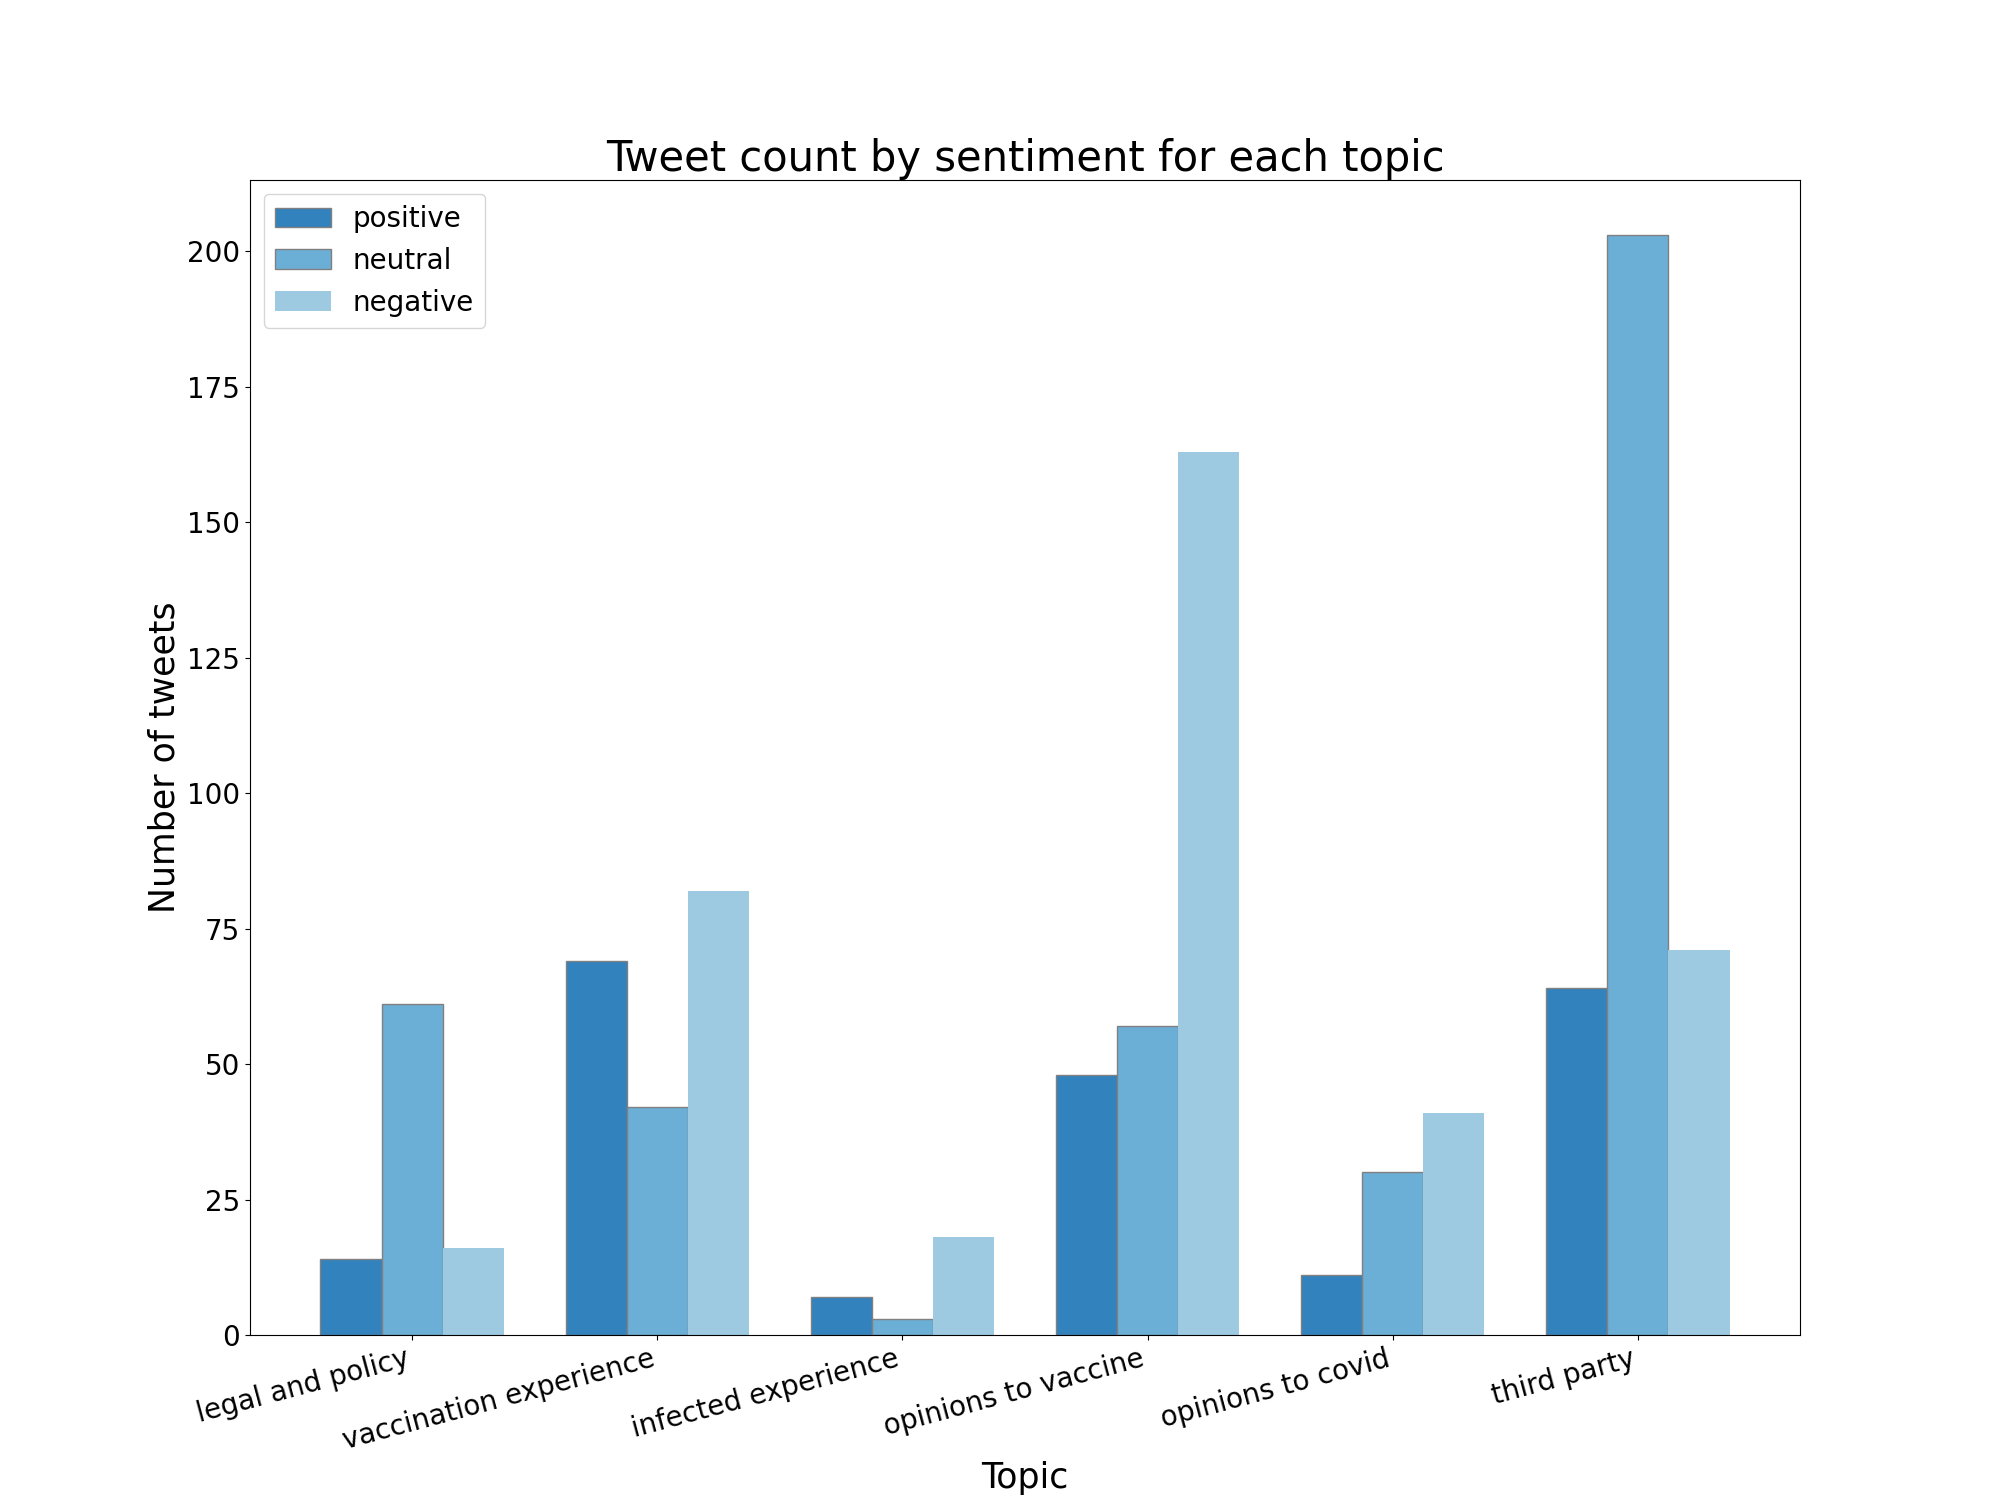
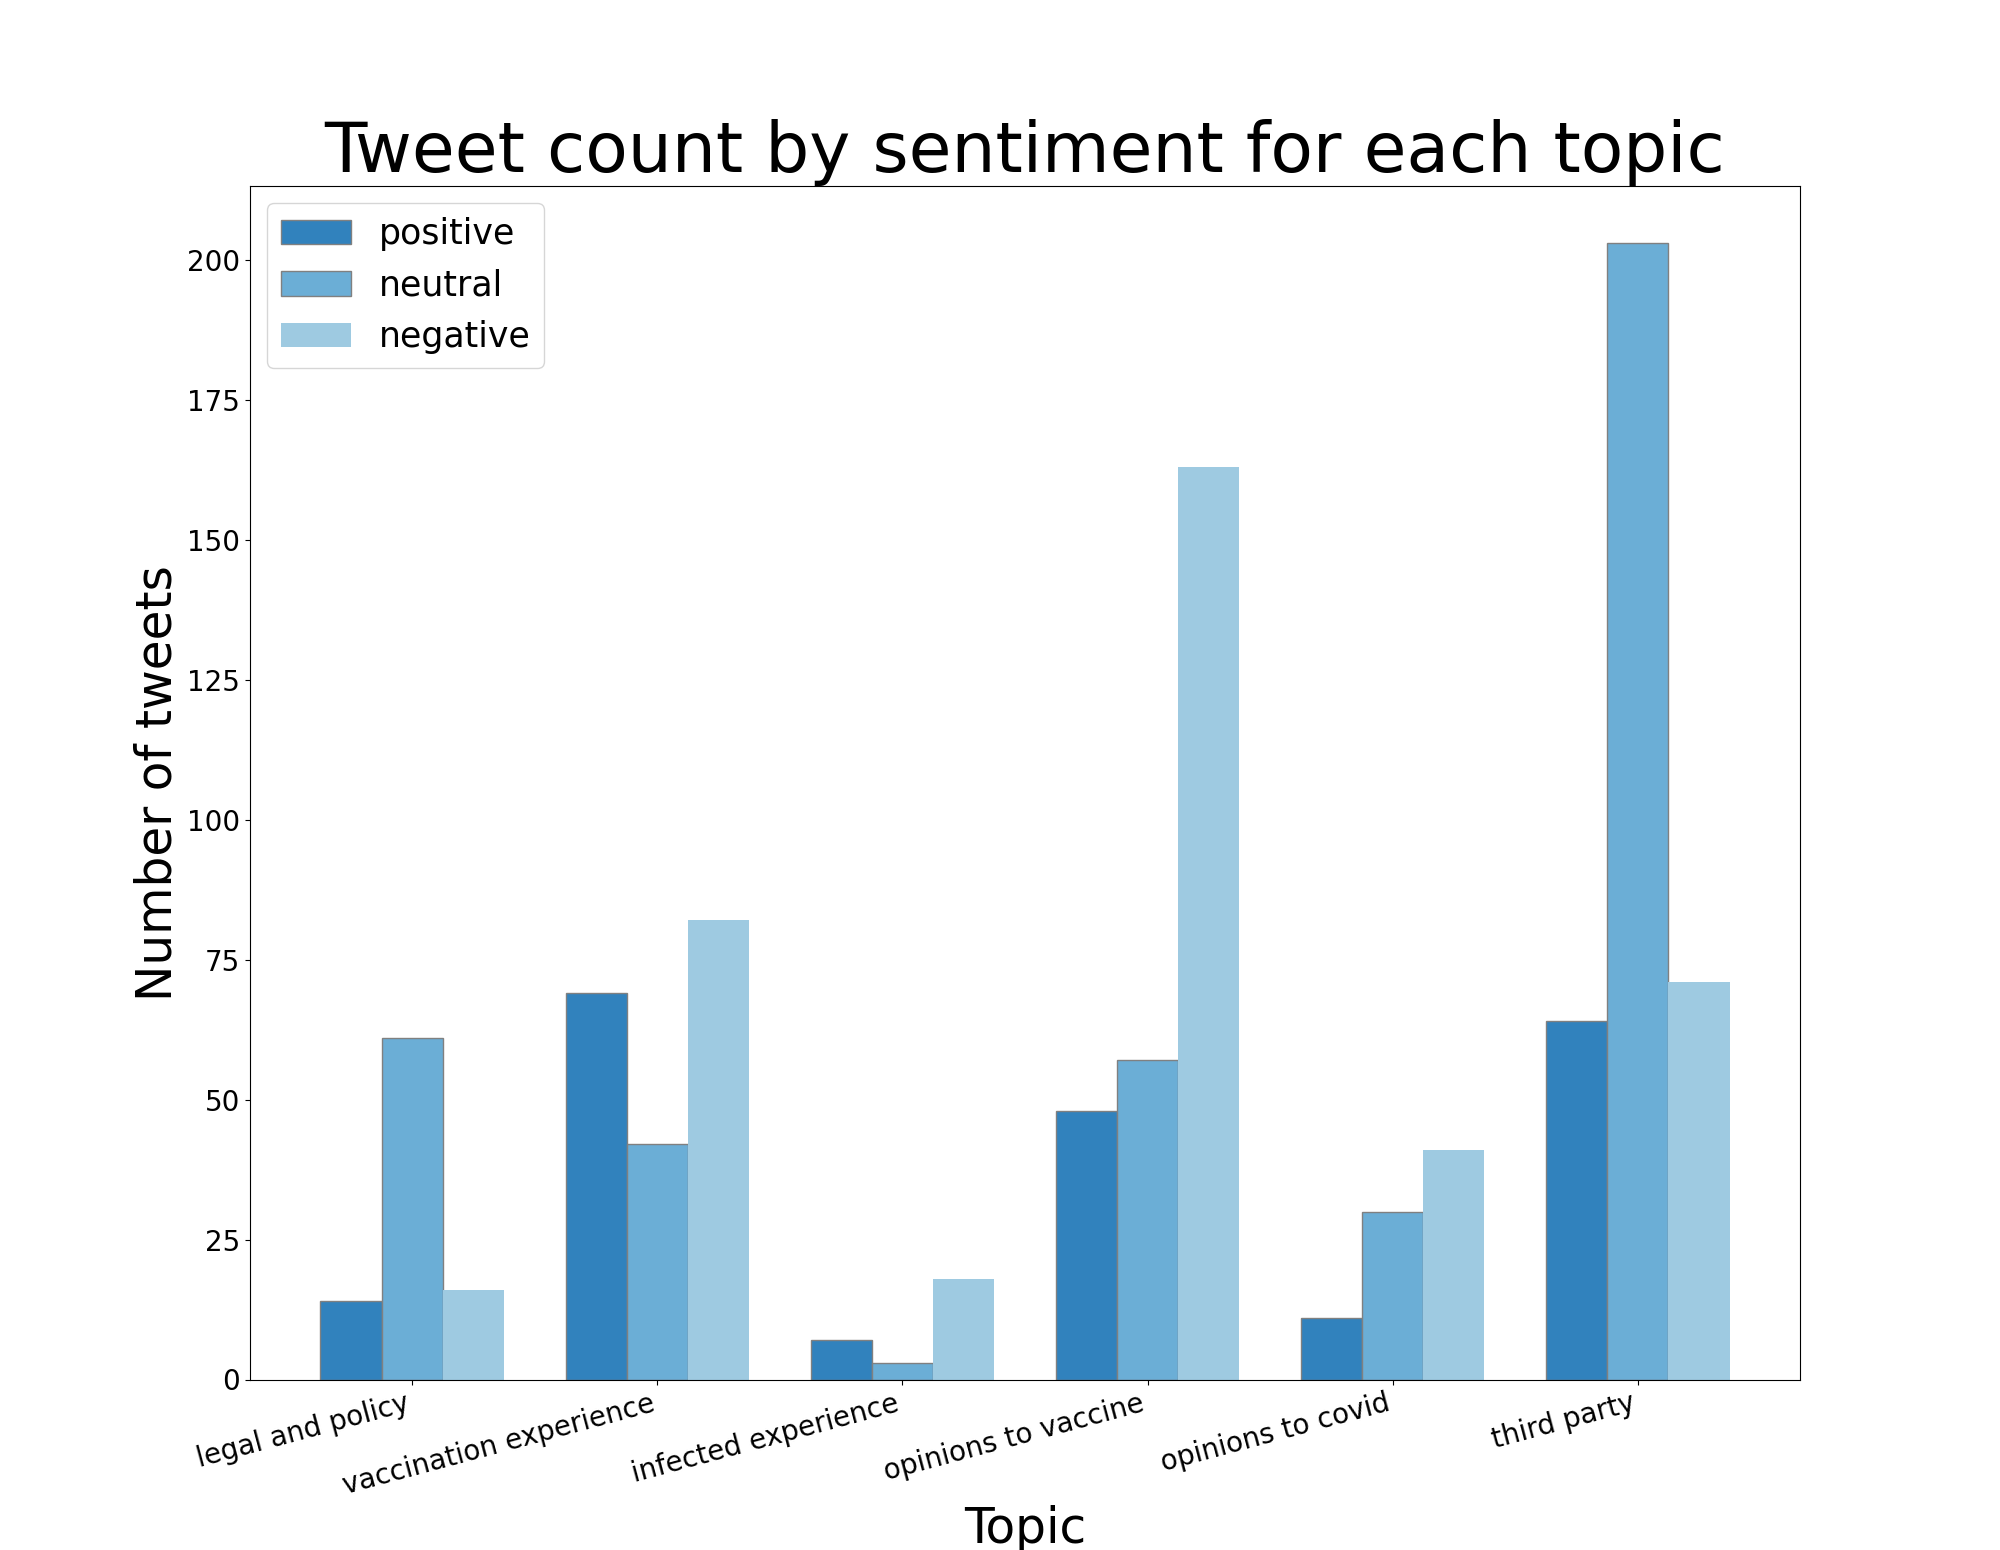
Change fontsize in plot

diff --git a/src/plot.py b/src/plot.py
@@ -57,7 +57,7 @@ def plot_topic_and_sentiment():
         res = json.load(f)
     # set width of bar
     barWidth = 0.25
-    fig = plt.subplots(figsize=(20, 15))
+    fig = plt.subplots(figsize=(20, 15.5))
 
     # set height of bar
     positive = [res[k]['positive'] for k in res.keys()]
@@ -80,13 +80,13 @@ def plot_topic_and_sentiment():
     plt.bar(br3, negative, color=colors[2], width=barWidth, label='negative')
 
     # Adding Xticks
-    plt.xlabel('Topic', fontsize=25)
-    plt.ylabel('Number of tweets', fontsize=25)
+    plt.xlabel('Topic', fontsize=35)
+    plt.ylabel('Number of tweets', fontsize=35)
     plt.xticks([r + barWidth for r in range(len(positive))], list(res.keys()), fontsize=20, rotation=15, ha='right')
     plt.yticks(fontsize=20)
 
-    plt.title('Tweet count by sentiment for each topic', fontsize=30)
-    plt.legend(prop={"size":20})
+    plt.title('Tweet count by sentiment for each topic', fontsize=50)
+    plt.legend(prop={"size":25})
     plt.savefig('../result/figures/topic_and_sentiment_bar_chart.png')
 
 
